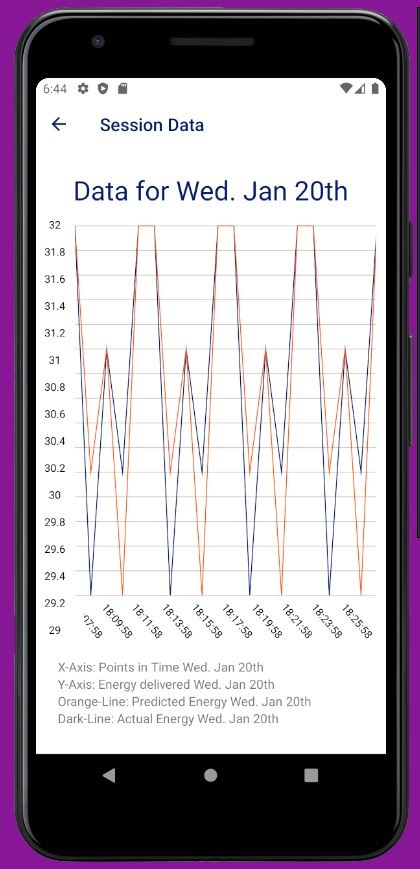
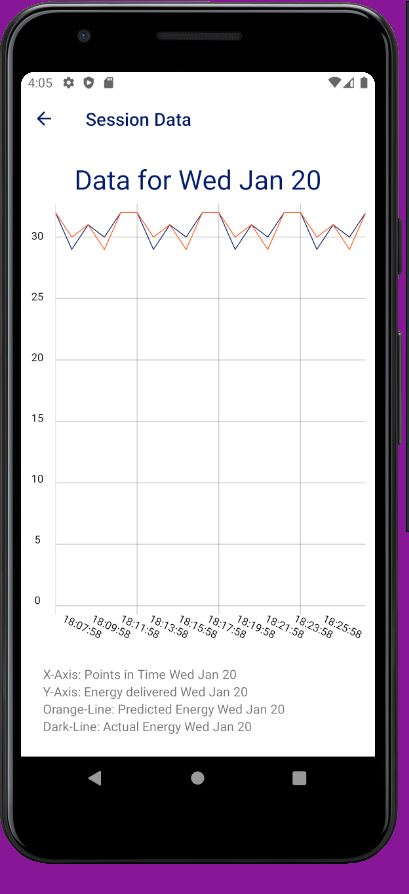
feat: minor changes

Changed region(s): [[0.0, 0.0, 1.0, 0.9942]]

diff --git a/components/chart.js b/components/chart.js
@@ -63,7 +63,7 @@ export default function Chart({ data }) {
           svg={axesSvg}
           min={0}
         />
-        <View style={{ flex: 1, marginLeft: 10, marginBottom: "-10%" }}>
+        <View style={{ flex: 1, marginLeft: 10, marginBottom: "-15%" }}>
           <LineChart
             style={{ flex: 1, height: 50 }}
             data={chartData}
@@ -78,7 +78,7 @@ export default function Chart({ data }) {
           <XAxis
             style={{
               marginHorizontal: -10,
-              marginTop: "-5%",
+              // marginTop: 5,
               height: "10%",
             }}
             data={data.time}
@@ -100,11 +100,11 @@ export default function Chart({ data }) {
             spacingInner={spacingInner}
             spacingOuter={spacingOuter}
             contentInset={{ left: 30, right: 30 }}
-            svg={{ ...axesSvg, rotation: 20, y: 10 }}
+            svg={{ ...axesSvg, rotation: 25, y: 10 }}
           />
         </View>
       </View>
-      <View style={{ marginLeft: 15 }}>
+      <View style={{ marginLeft: 15, marginTop: 15 }}>
         <Text style={styles.captionExplainationX}>
           X-Axis: Points in Time {displayDay()}
         </Text>
